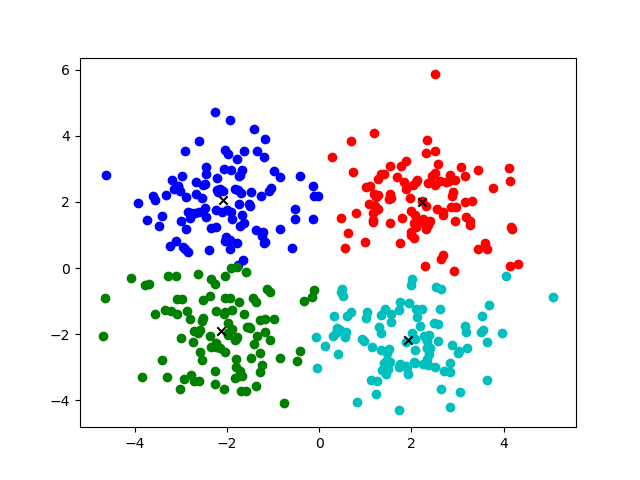
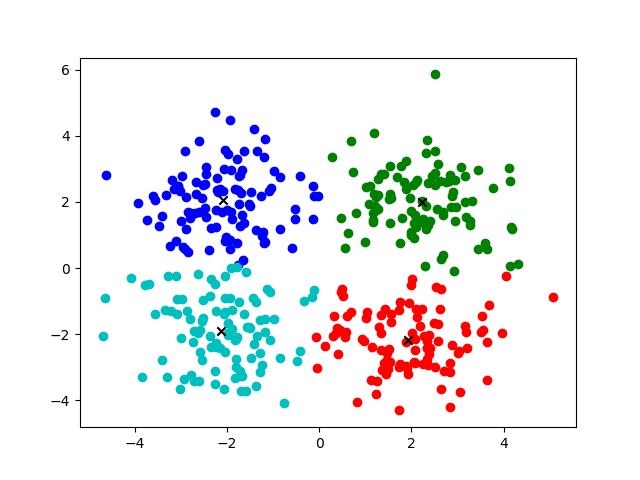
working kmeans

diff --git a/unsupervised/kmeans.py b/unsupervised/kmeans.py
@@ -10,8 +10,10 @@ class KMeans:
         self.centroids = {}
         
         # Initialize centroids randomly
+        centroids = X[np.random.choice(X.shape[0], self.n_clusters, replace=False)]
+
         for i in range(self.n_clusters):
-            self.centroids[i] = X[np.random.choice(X.shape[0],1),:]
+            self.centroids[i] = centroids[i]
 
         # Iterate until convergence or max_iter
         for i in range(self.max_iter):
@@ -35,8 +37,11 @@ class KMeans:
             for c in self.centroids:
                 if not np.array_equal(self.centroids[c], prev_centroids[c]):
                     converged = False
+                    break
             if converged:
                 break
+        
+        #wccs=
                 
     def predict(self, X):
         y_pred = []
@@ -62,6 +67,11 @@ def get_Data():
     data = np.vstack([cluster1, cluster2, cluster3, cluster4])
     return data
 
+def get_scipy_data():
+    from sklearn.datasets import make_blobs
+    X, y = make_blobs(n_samples=1000, centers=8, n_features=2, random_state=42)
+    return X
+
 if __name__=="__main__":
 
     # Generate some random data
@@ -77,5 +87,5 @@ if __name__=="__main__":
     for i in range(len(X)):
         plt.scatter(X[i][0], X[i][1], color=colors[y_pred[i]])
     plt.scatter([kmeans.centroids[c][0] for c in kmeans.centroids], [kmeans.centroids[c][1] for c in kmeans.centroids], marker='x', color='black')
-    plt.show()
+    #plt.show()
     plt.savefig('results/cluster.png')
